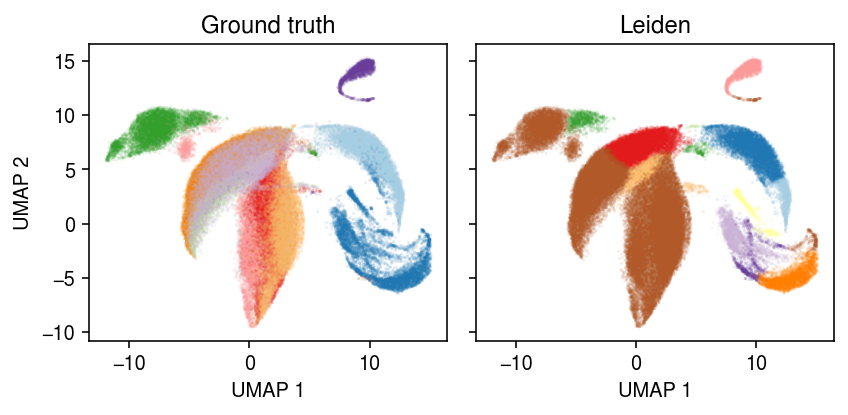
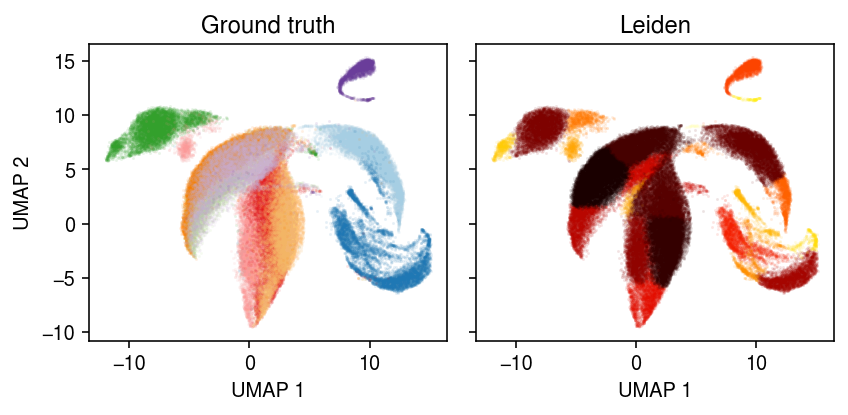
More work on 10-way mix

Changed region(s): [[0.5825, 0.2602, 0.9811, 0.7807], [0.8278, 0.1446, 0.9198, 0.2602]]

diff --git a/docs/nbmix.html b/docs/nbmix.html
@@ -1,7 +1,7 @@
 <!DOCTYPE html>
 <html lang="en">
 <head>
-<!-- 2020-05-22 Fri 16:46 -->
+<!-- 2020-05-22 Fri 23:10 -->
 <meta charset="utf-8">
 <meta name="viewport" content="width=device-width, initial-scale=1">
 <title>Model-based clustering of scRNA-seq data</title>
@@ -450,8 +450,8 @@ can improve the expected log joint probability, e.g. by
 </div>
 </div>
 
-<div id="outline-container-org5e8b340" class="outline-3">
-<h3 id="ai"><a id="org5e8b340"></a>Amortized inference</h3>
+<div id="outline-container-org30179e2" class="outline-3">
+<h3 id="ai"><a id="org30179e2"></a>Amortized inference</h3>
 <div class="outline-text-3" id="text-ai">
 <p>
 An alternative algorithm, which is amenable to stochastic gradient descent
@@ -864,8 +864,8 @@ plt.tight_layout()
 </div>
 </div>
 
-<div id="outline-container-org88b083e" class="outline-3">
-<h3 id="amortized"><a id="org88b083e"></a>Amortized inference</h3>
+<div id="outline-container-org9695cdc" class="outline-3">
+<h3 id="amortized"><a id="org9695cdc"></a>Amortized inference</h3>
 <div class="outline-text-3" id="text-amortized">
 <p>
 Construct the amortized inference model, initializing \(\vmu_k, \vphi_k\)
@@ -1046,7 +1046,7 @@ fig.set_size_inches(6, 3)
 <span class="org-keyword">for</span> i, c <span class="org-keyword">in</span> <span class="org-builtin">enumerate</span>(dat.obs[<span class="org-string">'cell_type'</span>].unique()):
   ax[0].plot(*dat[dat.obs[<span class="org-string">'cell_type'</span>] == c].obsm[<span class="org-string">"X_umap"</span>].T, c=cm(i), marker=<span class="org-string">'.'</span>, ms=1, lw=0, label=f<span class="org-string">'{c}'</span>, alpha=0.1)
 <span class="org-keyword">for</span> i, c <span class="org-keyword">in</span> <span class="org-builtin">enumerate</span>(dat.obs[<span class="org-string">'leiden'</span>].unique()):
-  ax[1].plot(*dat[dat.obs[<span class="org-string">'leiden'</span>] == c].obsm[<span class="org-string">"X_umap"</span>].T, c=cm(i), marker=<span class="org-string">'.'</span>, ms=1, lw=0, label=f<span class="org-string">'Cluster {i}'</span>, alpha=0.1)
+  ax[1].plot(*dat[dat.obs[<span class="org-string">'leiden'</span>] == c].obsm[<span class="org-string">"X_umap"</span>].T, c=colorcet.cm[<span class="org-string">'fire'</span>]((<span class="org-builtin">int</span>(c) + .5) / 22), marker=<span class="org-string">'.'</span>, ms=1, lw=0, label=f<span class="org-string">'Cluster {i}'</span>, alpha=0.1)
 <span class="org-keyword">for</span> a, t <span class="org-keyword">in</span> <span class="org-builtin">zip</span>(ax, [<span class="org-string">'Ground truth'</span>, <span class="org-string">'Leiden'</span>]):
   a.set_title(t)
 <span class="org-keyword">for</span> a <span class="org-keyword">in</span> ax:
@@ -1085,7 +1085,74 @@ mix10.write(<span class="org-string">'/scratch/midway2/aksarkar/ideas/mix10-init
 </div>
 
 <p>
-First, fit a point mass expression model, given the ground truth labels.
+Try running UMAP directly on the sparse data.
+</p>
+
+<div class="org-src-container">
+<pre class="src src-ipython">%%time
+<span class="org-variable-name">embedding</span> = umap.UMAP(metric=<span class="org-string">'cosine'</span>, random_state=0).fit_transform(mix10.X)
+</pre>
+</div>
+
+<p>
+CPU times: user 3.75 s, sys: 41 ms, total: 3.79 s
+Wall time: 3.8 s
+</p>
+
+<p>
+Run NMF on the sparse data, and estimate latent gene expression. Then,
+estimate a UMAP embedding on latent gene expression.
+</p>
+
+<div class="org-src-container">
+<pre class="src src-ipython"><span class="org-keyword">import</span> rpy2.robjects.packages
+<span class="org-keyword">import</span> rpy2.robjects.pandas2ri
+rpy2.robjects.pandas2ri.activate()
+<span class="org-variable-name">matrix</span> = rpy2.robjects.packages.importr(<span class="org-string">'Matrix'</span>)
+<span class="org-variable-name">fasttopics</span> = rpy2.robjects.packages.importr(<span class="org-string">'fastTopics'</span>)
+
+<span class="org-variable-name">temp</span> = mix10.X.tocoo()
+<span class="org-variable-name">y</span> = matrix.sparseMatrix(i=pd.Series(temp.row + 1), j=pd.Series(temp.col + 1), x=pd.Series(temp.data), dims=pd.Series(temp.shape))
+<span class="org-variable-name">res</span> = fasttopics.fit_poisson_nmf(y, k=10, numiter=40, method=<span class="org-string">'scd'</span>, control=rpy2.robjects.ListVector({<span class="org-string">'extrapolate'</span>: <span class="org-constant">True</span>}), verbose=<span class="org-constant">True</span>)
+<span class="org-variable-name">lam</span> = np.array(res.rx2(<span class="org-string">'L'</span>)) @ np.array(res.rx2(<span class="org-string">'F'</span>)).T
+</pre>
+</div>
+
+<div class="org-src-container">
+<pre class="src src-ipython"><span class="org-variable-name">nmf_umap</span> = umap.UMAP(metric=<span class="org-string">'cosine'</span>, random_state=0, n_neighbors=10).fit_transform(lam)
+</pre>
+</div>
+
+<p>
+Compare the UMAP embeddings.
+</p>
+
+<div class="org-src-container">
+<pre class="src src-ipython"><span class="org-variable-name">cm</span> = plt.get_cmap(<span class="org-string">'Paired'</span>)
+plt.clf()
+<span class="org-variable-name">fig</span>, <span class="org-variable-name">ax</span> = plt.subplots(1, 3)
+fig.set_size_inches(7.5, 2.5)
+<span class="org-keyword">for</span> i, c <span class="org-keyword">in</span> <span class="org-builtin">enumerate</span>(mix10.obs[<span class="org-string">'cell_type'</span>].unique()):
+  ax[0].plot(*mix10[mix10.obs[<span class="org-string">'cell_type'</span>] == c].obsm[<span class="org-string">"X_umap"</span>].T, c=cm(i), marker=<span class="org-string">'.'</span>, ms=1, lw=0, label=f<span class="org-string">'{c}'</span>)
+  ax[1].plot(*embedding[mix10.obs[<span class="org-string">'cell_type'</span>] == c].T, c=cm(i), marker=<span class="org-string">'.'</span>, ms=1, lw=0, label=f<span class="org-string">'{c}'</span>)
+  ax[2].plot(*nmf_umap[mix10.obs[<span class="org-string">'cell_type'</span>] == c].T, c=cm(i), marker=<span class="org-string">'.'</span>, ms=1, lw=0, label=f<span class="org-string">'{c}'</span>)
+<span class="org-keyword">for</span> a, t <span class="org-keyword">in</span> <span class="org-builtin">zip</span>(ax, [<span class="org-string">'Euclidean/PCA'</span>, <span class="org-string">'Cosine/counts'</span>, <span class="org-string">'Cosine/latent'</span>]):
+  a.set_title(t)
+  a.set_xlabel(<span class="org-string">'UMAP 1'</span>)
+ax[0].set_ylabel(<span class="org-string">'UMAP 2'</span>)
+ax[-1].legend(frameon=<span class="org-constant">False</span>, loc=<span class="org-string">'center left'</span>, bbox_to_anchor=(1, .5), handletextpad=0, markerscale=8)
+fig.tight_layout()
+</pre>
+</div>
+
+
+<div class="figure">
+<p><img src="figure/nbmix.org/mix10-umap.png" alt="mix10-umap.png">
+</p>
+</div>
+
+<p>
+Fit point mass expression models, given the ground truth labels.
 </p>
 
 <div class="org-src-container">
@@ -1581,7 +1648,7 @@ potentially be adapted to this setting (reviewed in
 </div>
 <div id="postamble" class="status">
 <p class="author">Author: Abhishek Sarkar</p>
-<p class="date">Created: 2020-05-22 Fri 16:46</p>
+<p class="date">Created: 2020-05-22 Fri 23:10</p>
 <p class="validation"><a href="http://validator.w3.org/check?uri=referer">Validate</a></p>
 </div>
 </body>
